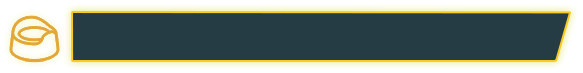
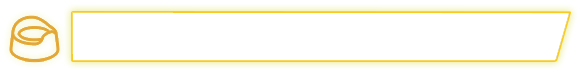
UIbars Scriptable object + layout

diff --git a/Assets/Scripts/UIManager.cs b/Assets/Scripts/UIManager.cs
@@ -7,60 +7,69 @@ public class UIManager : MonoBehaviour
 {
     [SerializeField] private Image[] _imageMeters;
     [SerializeField] private float[] _floatMeters;
-    
+    [SerializeField] private float[] _localScale;
+
     //[SerializeField] private float _maxTime;
     //[SerializeField] private GameObject emptyMeter2;
-    private Vector3 _localScale;
+    private Vector3 _barIncreaseReversed;
     private float _timer;
-    private Vector3 _startScale;
-    private GameObject _player;
-    private GameObject _barManagerObject;
-    private BarManager _barManager;
-    private PlayerController _playerController;
 
 
 
+    //private GameObject _player;
+    //private GameObject _barManagerObject;
+    //private BarManager _barManager;
+    //private PlayerController _playerController;
+    [SerializeField] private UIScriptableObject _uiData;
+
+    [SerializeField] private Vector2 _localscaleYZ;
 
 
     void Start()
     {
-        
-        _player = GameObject.FindGameObjectWithTag("Player");
-        _barManagerObject = GameObject.Find("BarManager");
 
-        _barManager = _barManagerObject.GetComponent<BarManager>();
-        _playerController =  _player.GetComponent<PlayerController>();
+        //_player = GameObject.FindGameObjectWithTag("Player");
+        //_barManagerObject = GameObject.Find("BarManager");
 
-       _startScale = _imageMeters[0].transform.localScale; // scale = first empty scale
-        
-
-        //_floatMeters[0] = (_barManager._angryMeter / 100);
-        //_floatMeters[1] = (_barManager._poopMeter / 100);
-        //_floatMeters[2] = (_barManager._sneezMeter / 100);
-       // _floatMeters[3] = (_ / 100);  // IMPLEMENT PUBLIC STAMINAMETER
-       // _playerController.stamina
+        //_barManager = _barManagerObject.GetComponent<BarManager>();
+        //_playerController = _player.GetComponent<PlayerController>();
 
 
-
-        
-    }
-
-    // Update is called once per frame
-    void Update()
-    {
-        float[] meters = { _barManager._sneezMeter, _barManager._angryMeter, _barManager._poopMeter };
-        for (int i = 0; i < meters.Length; i++)
-            _floatMeters[i] = meters[i] / 100f;
-
-        
-
-        for(int i = 0; i < _imageMeters.Length; i++)
+        for (int i = 0; i < _imageMeters.Length; i++)
         {
-            _localScale = new Vector3((1 - _floatMeters[i]) * _startScale.x ,_startScale.y ,_startScale.z); // make an empty on the angrymeter
-            _imageMeters[i].rectTransform.localScale = _localScale;
+            {
+                _localScale[i] = _imageMeters[i].transform.localScale.x; // scale = scale of each meter
+
+            }
+
+
+            //_floatMeters[0] = (_barManager._angryMeter / 100);
+            //_floatMeters[1] = (_barManager._poopMeter / 100);
+            //_floatMeters[2] = (_barManager._sneezMeter / 100);
+            // _floatMeters[3] = (_ / 100);  // IMPLEMENT PUBLIC STAMINAMETER
+            // _playerController.stamina
+
+
+
+
         }
-        Debug.Log(_localScale.x);
-        
-            
     }
-}
+        // Update is called once per frame
+        void Update()
+        {
+            float[] meters = { _uiData.GetHapiness(), _uiData.GetPoop(), _uiData.GetHungry(), _uiData.GetPee(), _uiData.GetStamina() };
+            for (int i = 0; i < meters.Length; i++)
+                _floatMeters[i] = meters[i] / 100f;
+
+
+
+            for (int i = 0; i < _imageMeters.Length; i++)
+            {
+                _barIncreaseReversed = new Vector3((1 - _floatMeters[i]) * _localScale[i], _localscaleYZ.x, _localscaleYZ.y); // make an empty on the angrymeter
+                _imageMeters[i].rectTransform.localScale = _barIncreaseReversed;
+            }
+            Debug.Log(_barIncreaseReversed.x);
+
+
+        }
+    }

diff --git a/Assets/Scripts/BarManager.cs b/Assets/Scripts/BarManager.cs
@@ -14,7 +14,8 @@ public class BarManager : MonoBehaviour
     [SerializeField] private GameObject _player;
 
     [SerializeField] public float _poopMeter;
-    [SerializeField] public float _sneezMeter;
+    [SerializeField] public float _hungerMeter;
+    [SerializeField] public float _peeMeter;
     [SerializeField] public float _angryMeter;
     [SerializeField] private float TimeToGetRandomEvent = 5;
 
@@ -66,26 +67,35 @@ public class BarManager : MonoBehaviour
             _angryMeter = Math.Min(_angryMeter, 100);
             AlertGuard(_cryRange);
         }
-        if (_sneezMeter >= 100)
+        if (_hungerMeter >= 100)
         {
-            _sneezMeter = 0;
-            Debug.Log("SNEEZ");
-            AlertGuard(_sneezRange);
+            _hungerMeter = 0;
+
+            Hunger();
+
+            Debug.Log("HUNGRY");
+            //AlertGuard(_sneezRange);
         }
         if (_poopMeter >= 100)
         {
             _poopMeter = 0;
             Poop();
         }
+        if(_peeMeter >= 100)
+        {
+            _peeMeter = 0;
+            Pee();
+        }
 
         _poopMeterText.text = $"Poop: {_poopMeter}";
-        _sneezMeterText.text = $"Sneez: {_sneezMeter}";
+        _sneezMeterText.text = $"Sneez: {_hungerMeter}";
         _angryMeterText.text = $"Angry: {_angryMeter}";
     }
 
+
     private void RandomBarIncrease()
     {
-        int num = UnityEngine.Random.Range(0, 3);
+        int num = UnityEngine.Random.Range(0, 4);
         switch (num)
         {
             case 0:
@@ -95,7 +105,10 @@ public class BarManager : MonoBehaviour
                 _poopMeter++;
                 break;
             case 2:
-                _sneezMeter++;
+                _hungerMeter++;
+                break;
+            case 3:
+                _peeMeter++;
                 break;
             default:
                 Debug.Log("LITTLE PROBLEM");
@@ -114,6 +127,15 @@ public class BarManager : MonoBehaviour
     }
     private void Poop()
     {
+        throw new NotImplementedException();
         //SceneManager.LoadScene("Diaper", LoadSceneMode.Single);
+    }
+    private void Pee()
+    {
+        throw new NotImplementedException();
+    }
+    private void Hunger()
+    {
+        throw new NotImplementedException();
     }
 }

diff --git a/Assets/Scripts/UIScriptableObject.cs b/Assets/Scripts/UIScriptableObject.cs
@@ -1,16 +1,41 @@
 using UnityEngine;
 
-public class UIScriptableObject : MonoBehaviour
-{
-    // Start is called once before the first execution of Update after the MonoBehaviour is created
-    void Start()
-    {
-        
-    }
+[CreateAssetMenu(fileName = "UIData", menuName = "Scriptable Objects/UIData")]
 
-    // Update is called once per frame
-    void Update()
+public class UIScriptableObject : ScriptableObject
+{
+    [SerializeField] private float _hapinessMeter;
+    [SerializeField] private float _poopMeter;
+    [SerializeField] private float _hungryMeter;
+    [SerializeField] private float _peeMeter;
+    [SerializeField] private float _staminaMeter;
+
+
+
+    public float GetPoop()
     {
-        
+
+        _poopMeter = Mathf.Max(_poopMeter, 0);
+        return Mathf.Min(_poopMeter, 100);
+    }
+    public float GetHapiness()
+    {
+        _hapinessMeter = Mathf.Max(_hapinessMeter, 0);
+        return Mathf.Min(_hapinessMeter, 100);
+    }
+    public float GetHungry()
+    {
+        _hungryMeter = Mathf.Max(_hungryMeter, 0);
+        return Mathf.Min(_hungryMeter, 100);
+    }
+    public float GetPee()
+    {
+        _peeMeter = Mathf.Max(_peeMeter, 0);
+        return Mathf.Min(_peeMeter, 100);
+    }
+    public float GetStamina()
+    {
+        _staminaMeter = Mathf.Max(_staminaMeter, 0);
+        return Mathf.Min(_staminaMeter, 100);
     }
 }
